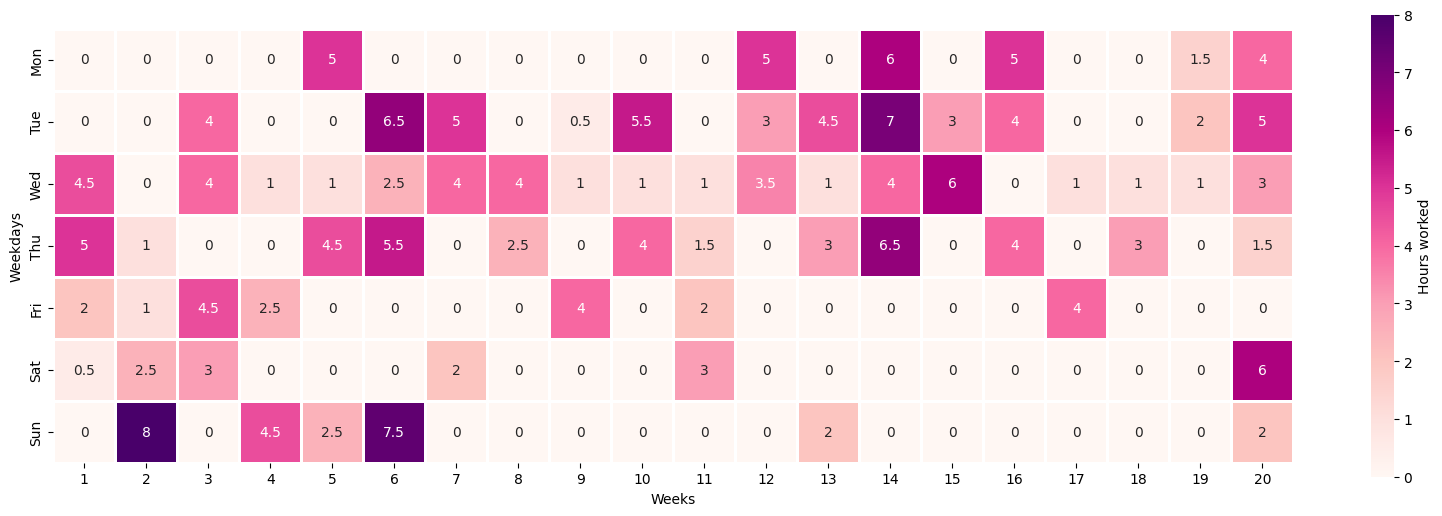
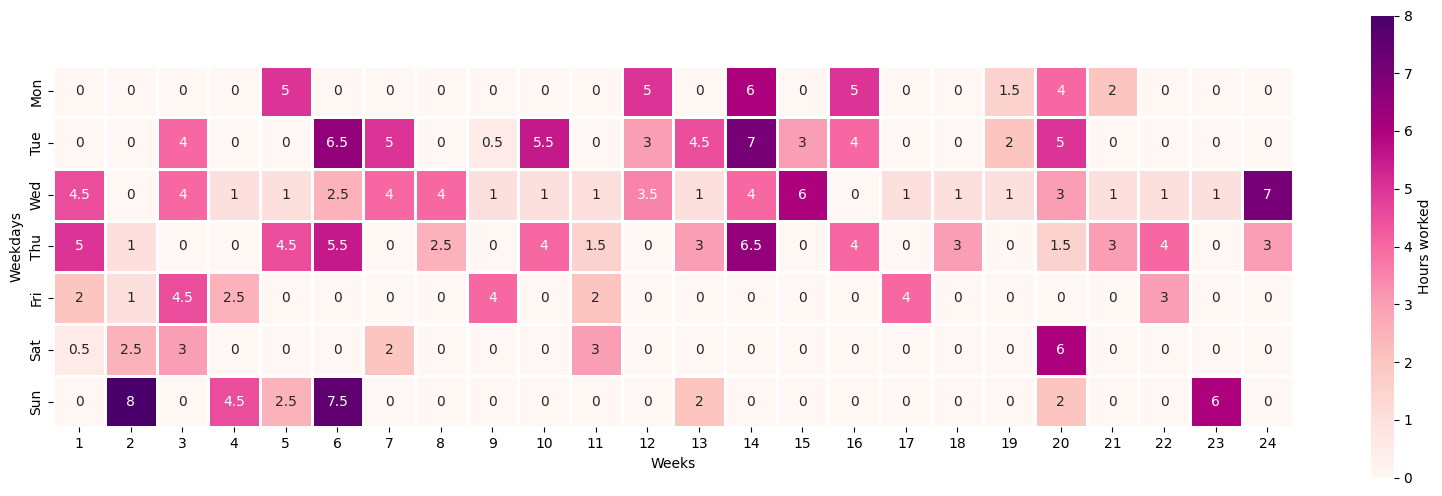
update timelog

diff --git a/timelog.md b/timelog.md
@@ -406,3 +406,55 @@
 ### 6 Feb 2022
 
 * *2 hours* Debugged hostnames not working in mininet. Currently trying to use the hostnames supplied by mininet, but these are likely not DNS resolvable.
+
+## Week 21
+
+### 7 Feb 2022
+
+* *2 hours* Some more mininet debugging.
+
+### 9 Feb 2022
+
+* *0.5 hours* Meeting with supervisor.
+* *0.5 hours* Aggregated meeting notes.
+
+### 10 Feb 2022
+
+* *3 hours* Did some binary size analysis, plots and write up.
+
+## Week 22
+
+### 16 Feb 2022
+
+* *0.5 hours* Meeting with supervisor.
+* *0.5 hours* Aggregated meeting notes.
+
+### 17 Feb 2022
+
+* *4 hours* Tried to debug mininet using /etc/resolv.conf and ifconfig.
+
+### 18 Feb 2022
+
+* *3 hours* Re-wrote parts of the dissertation to better formulate the problem statement.
+
+## Week 23
+
+### 23 Feb 2022
+
+* *0.5 hours* Meeting with supervisor.
+* *0.5 hours* Aggregated meeting notes.
+
+### 27 Feb 2022
+
+* *6 hours* Added another background section to the dissertation covering other hardware constrained protocols. Also did some flow re-writing.
+
+## Week 24
+
+### 2 Mar 2022
+
+* *2 hours* Fixed mininet by some pseudo magical combination of adding random things to /etc/hosts resolv.conf and ifconfig commands.
+* *5 hours* Did data gathering for connection time and transmission of messages.
+
+### 3 Mar 2022
+
+* *3 hours* Did plots for gathered data and wrote up connection analysis for the dissertation.
